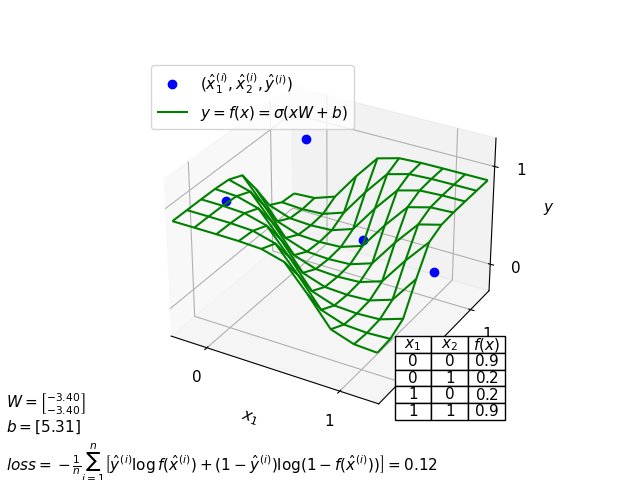
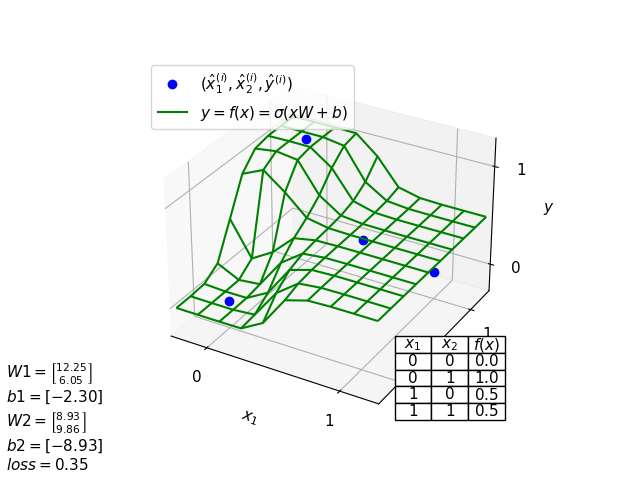
c er ferdig.

diff --git a/c/main.py b/c/main.py
@@ -9,17 +9,11 @@ matplotlib.rcParams.update({'font.size': 11})
 
 class SigmoidModel:
     def __init__(self):
-        self.W1 = torch.tensor([[7.43929911, 5.68582106], [7.44233704, 5.68641663]], dtype=torch.float, requires_grad=True)
-        self.b1 = torch.tensor([[-3.40935969, -8.69532299]], dtype=torch.float, requires_grad=True)
+        self.W1 = torch.rand((2, 2), dtype=torch.float, requires_grad=True)
+        self.b1 = torch.rand((1, 2), dtype=torch.float, requires_grad=True)
 
-        self.W2 = torch.tensor([[13.01280117], [-13.79168701]], dtype=torch.float, requires_grad=True)
-        self.b2 = torch.tensor([[-6.1043458]], dtype=torch.float, requires_grad=True)
-
-        # self.W1 = torch.tensor((torch.rand((2, 2), dtype=torch.float) * 10 - 5), requires_grad=True)
-        # self.b1 = torch.tensor(torch.rand((1, 2), dtype=torch.float) * 10 - 5, requires_grad=True)
-        #
-        # self.W2 = torch.tensor(torch.rand((2, 1), dtype=torch.float) * 10 - 5, requires_grad=True)
-        # self.b2 = torch.tensor(torch.rand((1, 1), dtype=torch.float) * 10 - 5, requires_grad=True)
+        self.W2 = torch.rand((2, 1), dtype=torch.float, requires_grad=True)
+        self.b2 = torch.rand((1, 1), dtype=torch.float, requires_grad=True)
 
     def logits(self, x, W, b):
         return x @ W + b
@@ -36,20 +30,26 @@ class SigmoidModel:
 
     # Uses Cross Entropy
     def loss(self, x, y):
-        return torch.nn.functional.binary_cross_entropy_with_logits(self.logits(x, self.W2, self.b2), y)
+        return torch.nn.functional.binary_cross_entropy_with_logits(self.logits(self.f1(x), self.W2, self.b2), y)
 
 
 model = SigmoidModel()
 
-x_train = torch.tensor([[0., 0.], [0., 1.], [1., 0.], [1., 1.]], dtype=torch.float, requires_grad=True)
-y_train = torch.tensor([[0.], [1.], [1.], [0.]], dtype=torch.float)
+x_train = torch.tensor([[0., 0.], [0., 1.], [1., 0.], [1., 1.]])
+y_train = torch.tensor([[0.], [1.], [1.], [0.]])
 
-optimizer = torch.optim.SGD([model.W2, model.b2], 5)
+optimizer = torch.optim.SGD([model.W1, model.b1, model.W2, model.b2], 5)
 
-for epoch in range(100000):
+for epoch in range(75000):
     model.loss(x_train, y_train).backward()
     optimizer.step()
     optimizer.zero_grad()
+
+# Print model variables and loss
+print("W = %s, b = %s, loss = %s" % (model.W1, model.b1, model.loss(x_train, y_train)))
+print("W = %s, b = %s, loss = %s" % (model.W2, model.b2, model.loss(x_train, y_train)))
+print("0,1 is 1 = ", round(model.f(torch.tensor([0., 0.])).item()))
+
 
 fig = plt.figure("Logistic regression: the logical XOR operator")
 
@@ -68,9 +68,9 @@ plot1_info = fig.text(0.01, 0.02, "$W1=\\genfrac{[}{]}{0}{}{%.2f}{%.2f}$\n"
                                   "$b1=[%.2f]$\n"
                                   "$W2=\\genfrac{[}{]}{0}{}{%.2f}{%.2f}$\n"
                                   "$b2=[%.2f]$\n"
-                                  "$\n$loss = %.2f$"
+                                  "$loss = %.2f$"
                       % (model.W1[0, 0], model.W1[1, 0], model.b1[0, 0], model.W2[0, 0], model.W2[1, 0], model.b2[0, 0],
-                         model.loss(x_train, y_train)))
+                         model.loss(x_train, y_train).item()))
 
 plot1.set_xlabel("$x_1$")
 plot1.set_ylabel("$x_2$")
